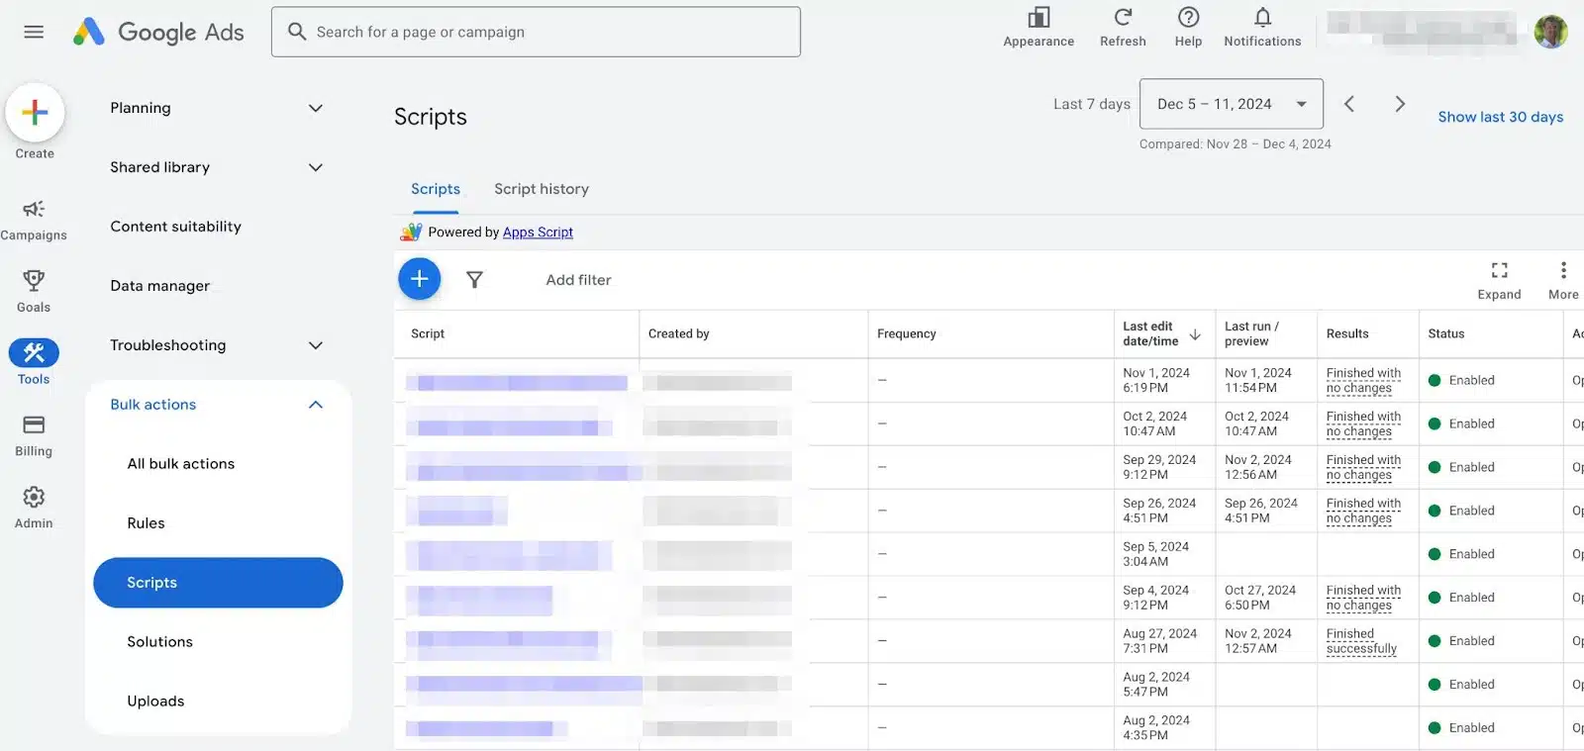
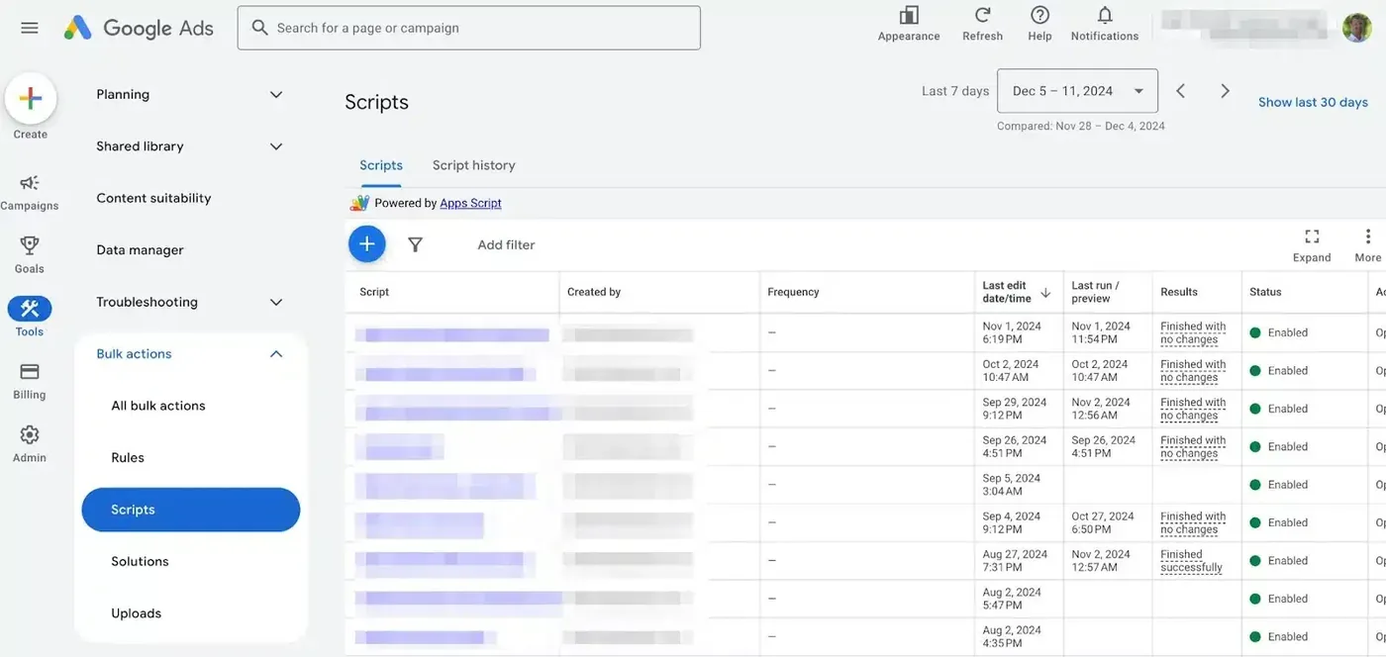
Convert all image refs to .webp for faster loading

Changed region(s): [[0.3071, 0.3012, 0.3379, 0.3313]]

diff --git a/index.html b/index.html
@@ -936,9 +936,9 @@
     <div class="hero-logos">
       <div class="hero-logos-label">Brands I've worked with</div>
       <div class="hero-logos-row">
-        <span class="logo-chip"><span class="logo-chip-icon"><img src="images/brand-logo.png" alt="Volopay"></span>Volopay</span>
-        <span class="logo-chip"><span class="logo-chip-icon"><img src="images/reviewer-rajveer.png" alt="Itilite"></span>Itilite</span>
-        <span class="logo-chip"><span class="logo-chip-icon"><img src="images/reviewer-pranav.png" alt="InterviewBuddy"></span>InterviewBuddy</span>
+        <span class="logo-chip"><span class="logo-chip-icon"><img src="images/brand-logo.webp" alt="Volopay"></span>Volopay</span>
+        <span class="logo-chip"><span class="logo-chip-icon"><img src="images/reviewer-rajveer.webp" alt="Itilite"></span>Itilite</span>
+        <span class="logo-chip"><span class="logo-chip-icon"><img src="images/reviewer-pranav.webp" alt="InterviewBuddy"></span>InterviewBuddy</span>
       </div>
     </div>
   </div>
@@ -987,7 +987,7 @@
   <!-- Illustration + floating badges -->
   <div class="hero-illus-section">
     <div class="hero-illus-inner">
-      <img id="hero-illus" src="images/vinay-illustration.png" alt="Vinay Kumar">
+      <img id="hero-illus" src="images/vinay-illustration.webp" alt="Vinay Kumar">
       <div class="float-badge float-1"><span class="badge-icon">✈</span> Traveller</div>
       <div class="float-badge float-2"><span class="badge-icon">🎨</span> Designer</div>
       <div class="float-badge float-3"><span class="badge-icon">📢</span> Marketer</div>
@@ -1022,7 +1022,7 @@
       <div class="about-img-wrap reveal">
         <div class="about-img-border"></div>
         <img
-          src="images/about-meghalaya.jpg"
+          src="images/about-meghalaya.webp"
           alt="Vinay Kumar"
           style="object-fit:cover;object-position:center top;"
         >
@@ -1098,7 +1098,7 @@
           <div class="cv-ghost"></div>
           <div class="cv-browser">
             <div class="cv-bar"><div class="cv-dots"><div class="cv-dot cv-dot-r"></div><div class="cv-dot cv-dot-y"></div><div class="cv-dot cv-dot-g"></div></div><div class="cv-url">volopay.com/dashboard</div></div>
-            <div class="cv-img"><img src="images/reviewer-enakshi.jpeg" alt="Volopay dashboard"></div>
+            <div class="cv-img"><img src="images/reviewer-enakshi.webp" alt="Volopay dashboard"></div>
           </div>
         </div>
       </div>
@@ -1122,7 +1122,7 @@
           <div class="cv-ghost"></div>
           <div class="cv-browser">
             <div class="cv-bar"><div class="cv-dots"><div class="cv-dot cv-dot-r"></div><div class="cv-dot cv-dot-y"></div><div class="cv-dot cv-dot-g"></div></div><div class="cv-url">vdointel.com/app</div></div>
-            <div class="cv-img"><img src="images/screenshot-200405.png" alt="VDO Intel"></div>
+            <div class="cv-img"><img src="images/screenshot-200405.webp" alt="VDO Intel"></div>
           </div>
         </div>
       </div>
@@ -1156,8 +1156,8 @@
     <!-- Mobile -->
     <div class="mob-scroll" style="margin-top:36px">
       <div class="mob-cards" id="cs-mob">
-        <div class="mob-card" onclick="location.href='volopay.html'" style="cursor:pointer"><div class="mob-card-vis"><div class="mob-cv-bg" style="background:radial-gradient(ellipse at 55% 30%,#FDBA8C 0%,#EA580C 50%,#7C2D12 100%)"></div><div class="mob-cv-ghost"></div><div class="mob-cv-browser"><div class="mob-cv-bar"><div class="mob-cv-dots"><div class="mob-cv-dot" style="background:#FF5F57"></div><div class="mob-cv-dot" style="background:#FFBD2E"></div><div class="mob-cv-dot" style="background:#28C840"></div></div></div><div class="mob-cv-img"><img src="images/reviewer-enakshi.jpeg" alt="Volopay"></div></div></div><div class="mob-card-body"><div class="card-co">Volopay · GTM Strategy</div><h3 class="card-title" style="font-size:17px">Ran GTM across four markets. The numbers moved everywhere.</h3><div class="card-tags"><span class="tag" style="background:rgba(196,98,45,0.1);color:#8B3A12">3.8%→11.85% CVR</span><span class="tag" style="background:rgba(196,98,45,0.1);color:#8B3A12">68% CPL Drop</span><span class="tag" style="background:rgba(196,98,45,0.1);color:#8B3A12">4 APAC Markets</span></div></div></div>
-        <div class="mob-card" onclick="location.href='vdo-intel.html'" style="cursor:pointer"><div class="mob-card-vis"><div class="mob-cv-bg" style="background:radial-gradient(ellipse at 55% 30%,#BAE6FD 0%,#0284C7 50%,#082F49 100%)"></div><div class="mob-cv-ghost"></div><div class="mob-cv-browser"><div class="mob-cv-bar"><div class="mob-cv-dots"><div class="mob-cv-dot" style="background:#FF5F57"></div><div class="mob-cv-dot" style="background:#FFBD2E"></div><div class="mob-cv-dot" style="background:#28C840"></div></div></div><div class="mob-cv-img"><img src="images/screenshot-200405.png" alt="VDO Intel"></div></div></div><div class="mob-card-body"><div class="card-co">VDO Intel · Positioning</div><h3 class="card-title" style="font-size:17px">Rewrote the positioning from scratch. Revenue followed in 90 days.</h3><div class="card-tags"><span class="tag" style="background:rgba(14,165,233,0.1);color:#0369a1">$220K Revenue</span><span class="tag" style="background:rgba(14,165,233,0.1);color:#0369a1">33.2% Lower CPL</span></div></div></div>
+        <div class="mob-card" onclick="location.href='volopay.html'" style="cursor:pointer"><div class="mob-card-vis"><div class="mob-cv-bg" style="background:radial-gradient(ellipse at 55% 30%,#FDBA8C 0%,#EA580C 50%,#7C2D12 100%)"></div><div class="mob-cv-ghost"></div><div class="mob-cv-browser"><div class="mob-cv-bar"><div class="mob-cv-dots"><div class="mob-cv-dot" style="background:#FF5F57"></div><div class="mob-cv-dot" style="background:#FFBD2E"></div><div class="mob-cv-dot" style="background:#28C840"></div></div></div><div class="mob-cv-img"><img src="images/reviewer-enakshi.webp" alt="Volopay"></div></div></div><div class="mob-card-body"><div class="card-co">Volopay · GTM Strategy</div><h3 class="card-title" style="font-size:17px">Ran GTM across four markets. The numbers moved everywhere.</h3><div class="card-tags"><span class="tag" style="background:rgba(196,98,45,0.1);color:#8B3A12">3.8%→11.85% CVR</span><span class="tag" style="background:rgba(196,98,45,0.1);color:#8B3A12">68% CPL Drop</span><span class="tag" style="background:rgba(196,98,45,0.1);color:#8B3A12">4 APAC Markets</span></div></div></div>
+        <div class="mob-card" onclick="location.href='vdo-intel.html'" style="cursor:pointer"><div class="mob-card-vis"><div class="mob-cv-bg" style="background:radial-gradient(ellipse at 55% 30%,#BAE6FD 0%,#0284C7 50%,#082F49 100%)"></div><div class="mob-cv-ghost"></div><div class="mob-cv-browser"><div class="mob-cv-bar"><div class="mob-cv-dots"><div class="mob-cv-dot" style="background:#FF5F57"></div><div class="mob-cv-dot" style="background:#FFBD2E"></div><div class="mob-cv-dot" style="background:#28C840"></div></div></div><div class="mob-cv-img"><img src="images/screenshot-200405.webp" alt="VDO Intel"></div></div></div><div class="mob-card-body"><div class="card-co">VDO Intel · Positioning</div><h3 class="card-title" style="font-size:17px">Rewrote the positioning from scratch. Revenue followed in 90 days.</h3><div class="card-tags"><span class="tag" style="background:rgba(14,165,233,0.1);color:#0369a1">$220K Revenue</span><span class="tag" style="background:rgba(14,165,233,0.1);color:#0369a1">33.2% Lower CPL</span></div></div></div>
         <div class="mob-card" onclick="location.href='performance-marketing.html'" style="cursor:pointer"><div class="mob-card-vis"><div class="mob-cv-bg" style="background:radial-gradient(ellipse at 55% 30%,#DDD6FE 0%,#7C3AED 50%,#2E1065 100%)"></div><div class="mob-cv-ghost"></div><div class="mob-cv-browser"><div class="mob-cv-bar"><div class="mob-cv-dots"><div class="mob-cv-dot" style="background:#FF5F57"></div><div class="mob-cv-dot" style="background:#FFBD2E"></div><div class="mob-cv-dot" style="background:#28C840"></div></div></div><div class="mob-cv-img"><img src="images/google-ads-script.webp" alt="Performance"></div></div></div><div class="mob-card-body"><div class="card-co">Performance Marketing</div><h3 class="card-title" style="font-size:17px">Multi-Channel Paid Acquisition</h3><div class="card-tags"><span class="tag" style="background:rgba(139,92,246,0.1);color:#6d28d9">33.2% CPL Drop</span><span class="tag" style="background:rgba(139,92,246,0.1);color:#6d28d9">+21% Engagement</span></div></div></div>
       </div>
       <div class="mob-arrows"><button class="mob-arrow" onclick="mobScroll('cs-mob',-1)">←</button><button class="mob-arrow" onclick="mobScroll('cs-mob',1)">→</button></div>
@@ -1193,7 +1193,7 @@
           <div class="cv-ghost"></div>
           <div class="cv-browser">
             <div class="cv-bar"><div class="cv-dots"><div class="cv-dot cv-dot-r"></div><div class="cv-dot cv-dot-y"></div><div class="cv-dot cv-dot-g"></div></div><div class="cv-url" style="font-family:monospace;font-size:10px;">claude — bash — 80×24</div></div>
-            <div class="cv-img"><img src="images/claude-terminal.png" alt="Claude terminal automation"></div>
+            <div class="cv-img"><img src="images/claude-terminal.webp" alt="Claude terminal automation"></div>
           </div>
         </div>
       </div>
@@ -1217,7 +1217,7 @@
           <div class="cv-ghost"></div>
           <div class="cv-browser">
             <div class="cv-bar"><div class="cv-dots"><div class="cv-dot cv-dot-r"></div><div class="cv-dot cv-dot-y"></div><div class="cv-dot cv-dot-g"></div></div><div class="cv-url">interviewbuddy.net</div></div>
-            <div class="cv-img"><img src="images/screenshot-200732.png" alt="InterviewBuddy"></div>
+            <div class="cv-img"><img src="images/screenshot-200732.webp" alt="InterviewBuddy"></div>
           </div>
         </div>
       </div>
@@ -1241,7 +1241,7 @@
           <div class="cv-ghost"></div>
           <div class="cv-browser">
             <div class="cv-bar"><div class="cv-dots"><div class="cv-dot cv-dot-r"></div><div class="cv-dot cv-dot-y"></div><div class="cv-dot cv-dot-g"></div></div><div class="cv-url">volopay.com/dashboard</div></div>
-            <div class="cv-img"><img src="images/reviewer-enakshi.jpeg" alt="Volopay dashboard"></div>
+            <div class="cv-img"><img src="images/reviewer-enakshi.webp" alt="Volopay dashboard"></div>
           </div>
         </div>
       </div>
@@ -1251,9 +1251,9 @@
     <!-- Mobile -->
     <div class="mob-scroll" style="margin-top:36px">
       <div class="mob-cards" id="exp-mob">
-        <div class="mob-card" onclick="location.href='ai-builds.html'" style="cursor:pointer"><div class="mob-card-vis" style="background:#0A0A0A;padding:0;overflow:hidden;"><img src="images/claude-terminal.png" alt="Claude Code terminal" style="width:100%;height:100%;object-fit:cover;object-position:top center;display:block;border-radius:16px 16px 0 0;"></div><div class="mob-card-body"><div class="card-co">AI Tooling · Claude Code</div><h3 class="card-title" style="font-size:17px">Four Recurring Tasks. Four Agents. Zero Manual Loops.</h3><div class="card-tags"><span class="tag" style="background:rgba(59,130,246,0.1);color:#1d4ed8">Claude Code</span><span class="tag" style="background:rgba(59,130,246,0.1);color:#1d4ed8">Automation</span><span class="tag" style="background:rgba(59,130,246,0.1);color:#1d4ed8">Zero Manual Work</span></div></div></div>
-        <div class="mob-card" onclick="location.href='interviewbuddy.html'" style="cursor:pointer"><div class="mob-card-vis"><div class="mob-cv-bg" style="background:radial-gradient(ellipse at 55% 30%,#FEF08A 0%,#CA8A04 50%,#431407 100%)"></div><div class="mob-cv-ghost"></div><div class="mob-cv-browser"><div class="mob-cv-bar"><div class="mob-cv-dots"><div class="mob-cv-dot" style="background:#FF5F57"></div><div class="mob-cv-dot" style="background:#FFBD2E"></div><div class="mob-cv-dot" style="background:#28C840"></div></div></div><div class="mob-cv-img"><img src="images/screenshot-200732.png" alt="InterviewBuddy"></div></div></div><div class="mob-card-body"><div class="card-co">Growth Hack</div><h3 class="card-title" style="font-size:17px">When Strategy Beats Budget</h3><div class="card-tags"><span class="tag" style="background:rgba(234,179,8,0.1);color:#854d0e">+21% Engagement</span><span class="tag" style="background:rgba(234,179,8,0.1);color:#854d0e">Zero Ad Spend</span></div></div></div>
-        <div class="mob-card" onclick="location.href='meta-ugc-volopay.html'" style="cursor:pointer"><div class="mob-card-vis"><div class="mob-cv-bg" style="background:radial-gradient(ellipse at 55% 30%,#FBCFE8 0%,#EC4899 50%,#831843 100%)"></div><div class="mob-cv-ghost"></div><div class="mob-cv-browser"><div class="mob-cv-bar"><div class="mob-cv-dots"><div class="mob-cv-dot" style="background:#FF5F57"></div><div class="mob-cv-dot" style="background:#FFBD2E"></div><div class="mob-cv-dot" style="background:#28C840"></div></div><div style="font-size:8px;color:rgba(20,20,20,0.4);padding-left:6px;">meta ads · volopay</div></div><div class="mob-cv-img"><img src="images/reviewer-enakshi.jpeg" alt="Meta UGC"></div></div></div><div class="mob-card-body"><div class="card-co">Meta UGC · Volopay</div><h3 class="card-title" style="font-size:17px">Selling B2B Like It's B2C</h3><div class="card-tags"><span class="tag" style="background:rgba(236,72,153,0.1);color:#9d174d">13% CVR Lift</span><span class="tag" style="background:rgba(236,72,153,0.1);color:#9d174d">68% Lower CPL</span></div></div></div>
+        <div class="mob-card" onclick="location.href='ai-builds.html'" style="cursor:pointer"><div class="mob-card-vis" style="background:#0A0A0A;padding:0;overflow:hidden;"><img src="images/claude-terminal.webp" alt="Claude Code terminal" style="width:100%;height:100%;object-fit:cover;object-position:top center;display:block;border-radius:16px 16px 0 0;"></div><div class="mob-card-body"><div class="card-co">AI Tooling · Claude Code</div><h3 class="card-title" style="font-size:17px">Four Recurring Tasks. Four Agents. Zero Manual Loops.</h3><div class="card-tags"><span class="tag" style="background:rgba(59,130,246,0.1);color:#1d4ed8">Claude Code</span><span class="tag" style="background:rgba(59,130,246,0.1);color:#1d4ed8">Automation</span><span class="tag" style="background:rgba(59,130,246,0.1);color:#1d4ed8">Zero Manual Work</span></div></div></div>
+        <div class="mob-card" onclick="location.href='interviewbuddy.html'" style="cursor:pointer"><div class="mob-card-vis"><div class="mob-cv-bg" style="background:radial-gradient(ellipse at 55% 30%,#FEF08A 0%,#CA8A04 50%,#431407 100%)"></div><div class="mob-cv-ghost"></div><div class="mob-cv-browser"><div class="mob-cv-bar"><div class="mob-cv-dots"><div class="mob-cv-dot" style="background:#FF5F57"></div><div class="mob-cv-dot" style="background:#FFBD2E"></div><div class="mob-cv-dot" style="background:#28C840"></div></div></div><div class="mob-cv-img"><img src="images/screenshot-200732.webp" alt="InterviewBuddy"></div></div></div><div class="mob-card-body"><div class="card-co">Growth Hack</div><h3 class="card-title" style="font-size:17px">When Strategy Beats Budget</h3><div class="card-tags"><span class="tag" style="background:rgba(234,179,8,0.1);color:#854d0e">+21% Engagement</span><span class="tag" style="background:rgba(234,179,8,0.1);color:#854d0e">Zero Ad Spend</span></div></div></div>
+        <div class="mob-card" onclick="location.href='meta-ugc-volopay.html'" style="cursor:pointer"><div class="mob-card-vis"><div class="mob-cv-bg" style="background:radial-gradient(ellipse at 55% 30%,#FBCFE8 0%,#EC4899 50%,#831843 100%)"></div><div class="mob-cv-ghost"></div><div class="mob-cv-browser"><div class="mob-cv-bar"><div class="mob-cv-dots"><div class="mob-cv-dot" style="background:#FF5F57"></div><div class="mob-cv-dot" style="background:#FFBD2E"></div><div class="mob-cv-dot" style="background:#28C840"></div></div><div style="font-size:8px;color:rgba(20,20,20,0.4);padding-left:6px;">meta ads · volopay</div></div><div class="mob-cv-img"><img src="images/reviewer-enakshi.webp" alt="Meta UGC"></div></div></div><div class="mob-card-body"><div class="card-co">Meta UGC · Volopay</div><h3 class="card-title" style="font-size:17px">Selling B2B Like It's B2C</h3><div class="card-tags"><span class="tag" style="background:rgba(236,72,153,0.1);color:#9d174d">13% CVR Lift</span><span class="tag" style="background:rgba(236,72,153,0.1);color:#9d174d">68% Lower CPL</span></div></div></div>
       </div>
       <div class="mob-arrows"><button class="mob-arrow" onclick="mobScroll('exp-mob',-1)">←</button><button class="mob-arrow" onclick="mobScroll('exp-mob',1)">→</button></div>
     </div>
@@ -1286,7 +1286,7 @@
           <div class="cv-ghost"></div>
           <div class="cv-browser">
             <div class="cv-bar"><div class="cv-dots"><div class="cv-dot cv-dot-r"></div><div class="cv-dot cv-dot-y"></div><div class="cv-dot cv-dot-g"></div></div><div class="cv-url">GoPMM Cohort 2</div></div>
-            <div class="cv-img"><img src="images/gopmm-cohort.jpeg" alt="GoPMM Cohort 2" style="object-position:center top;"></div>
+            <div class="cv-img"><img src="images/gopmm-cohort.webp" alt="GoPMM Cohort 2" style="object-position:center top;"></div>
           </div>
         </div>
       </div>
@@ -1299,7 +1299,7 @@
             <div class="mob-cv-ghost"></div>
             <div class="mob-cv-browser">
               <div class="mob-cv-bar"><div class="mob-cv-dots"><div class="mob-cv-dot" style="background:#FF5F57"></div><div class="mob-cv-dot" style="background:#FFBD2E"></div><div class="mob-cv-dot" style="background:#28C840"></div></div><div style="font-size:8px;color:rgba(20,20,20,0.4);padding-left:6px;">GoPMM Cohort 2</div></div>
-              <div class="mob-cv-img"><img src="images/gopmm-cohort.jpeg" alt="GoPMM Cohort 2" style="object-position:center top;"></div>
+              <div class="mob-cv-img"><img src="images/gopmm-cohort.webp" alt="GoPMM Cohort 2" style="object-position:center top;"></div>
             </div>
           </div>
           <div class="mob-card-body">
@@ -1344,7 +1344,7 @@
           <div class="cv-ghost"></div>
           <div class="cv-browser">
             <div class="cv-bar"><div class="cv-dots"><div class="cv-dot cv-dot-r"></div><div class="cv-dot cv-dot-y"></div><div class="cv-dot cv-dot-g"></div></div><div class="cv-url">design-work · figma + ps</div></div>
-            <div class="cv-img"><img src="images/design-case-study-cover.jpg" alt="Design work cover"></div>
+            <div class="cv-img"><img src="images/design-case-study-cover.webp" alt="Design work cover"></div>
           </div>
         </div>
       </div>
@@ -1358,7 +1358,7 @@
             <div class="mob-cv-ghost"></div>
             <div class="mob-cv-browser">
               <div class="mob-cv-bar"><div class="mob-cv-dots"><div class="mob-cv-dot" style="background:#FF5F57"></div><div class="mob-cv-dot" style="background:#FFBD2E"></div><div class="mob-cv-dot" style="background:#28C840"></div></div></div>
-              <div class="mob-cv-img"><img src="images/design-case-study-cover.jpg" alt="Design work"></div>
+              <div class="mob-cv-img"><img src="images/design-case-study-cover.webp" alt="Design work"></div>
             </div>
           </div>
           <div class="mob-card-body">
@@ -1388,7 +1388,7 @@
         <div><div class="testi-stars">★★★★★</div>
           <p class="testi-quote">"Working with Vinay was a true pleasure. As a hard-working individual and a solid team player, he consistently exceeded expectations. His positive attitude and strong work ethic were inspiring."</p>
         </div>
-        <div class="testi-author"><div class="testi-avatar"><img src="images/card-interviewbuddy.jpeg" alt="Pranav"></div>
+        <div class="testi-author"><div class="testi-avatar"><img src="images/card-interviewbuddy.webp" alt="Pranav"></div>
           <div><div class="testi-name">Pranav Harish</div><div class="testi-role">Head of Growth @ Volopay</div></div>
         </div>
       </div>
@@ -1396,7 +1396,7 @@
         <div><div class="testi-stars">★★★★★</div>
           <p class="testi-quote">"Working with Vinay at Revv Growth has been a great experience. He leads with clarity, stays calm under pressure, and always makes sure the team knows the bigger goal. He is truly multi-talented."</p>
         </div>
-        <div class="testi-author"><div class="testi-avatar"><img src="images/itilite-logo.png" alt="Enakshi"></div>
+        <div class="testi-author"><div class="testi-avatar"><img src="images/itilite-logo.webp" alt="Enakshi"></div>
           <div><div class="testi-name">Enakshi Saha</div><div class="testi-role">Growth Marketer @ Revv Growth</div></div>
         </div>
       </div>
@@ -1404,7 +1404,7 @@
         <div><div class="testi-stars">★★★★★</div>
           <p class="testi-quote">"Vinay is someone who is exceptionally smart when it comes to running ads on various channels, especially Facebook. Super proactive and is someone with whom working is very easy."</p>
         </div>
-        <div class="testi-author"><div class="testi-avatar"><img src="images/card-volopay.jpeg" alt="Rajveer"></div>
+        <div class="testi-author"><div class="testi-avatar"><img src="images/card-volopay.webp" alt="Rajveer"></div>
           <div><div class="testi-name">Rajveer Singh</div><div class="testi-role">Growth at Volopay</div></div>
         </div>
       </div>
@@ -1412,7 +1412,7 @@
         <div><div class="testi-stars">★★★★★</div>
           <p class="testi-quote">"Vinay is a product marketer who excels at turning complex technology into clear, revenue-driving narratives. He played a key role in repositioning our product, leading to an increase in qualified leads, and collaborated on a website revamp that significantly improved engagement and demo conversions."</p>
         </div>
-        <div class="testi-author"><div class="testi-avatar"><img src="images/reviewer-madhu.jpeg" alt="Madhu Babu"></div>
+        <div class="testi-author"><div class="testi-avatar"><img src="images/reviewer-madhu.webp" alt="Madhu Babu"></div>
           <div><div class="testi-name">Madhu Babu</div><div class="testi-role">Chief of Operations, VDO Intel</div></div>
         </div>
       </div>
@@ -1421,7 +1421,7 @@
         <div><div class="testi-stars">★★★★★</div>
           <p class="testi-quote">"Working with Vinay was a true pleasure. As a hard-working individual and a solid team player, he consistently exceeded expectations. His positive attitude and strong work ethic were inspiring."</p>
         </div>
-        <div class="testi-author"><div class="testi-avatar"><img src="images/card-interviewbuddy.jpeg" alt="Pranav"></div>
+        <div class="testi-author"><div class="testi-avatar"><img src="images/card-interviewbuddy.webp" alt="Pranav"></div>
           <div><div class="testi-name">Pranav Harish</div><div class="testi-role">Head of Growth @ Volopay</div></div>
         </div>
       </div>
@@ -1429,7 +1429,7 @@
         <div><div class="testi-stars">★★★★★</div>
           <p class="testi-quote">"Working with Vinay at Revv Growth has been a great experience. He leads with clarity, stays calm under pressure, and always makes sure the team knows the bigger goal. He is truly multi-talented."</p>
         </div>
-        <div class="testi-author"><div class="testi-avatar"><img src="images/itilite-logo.png" alt="Enakshi"></div>
+        <div class="testi-author"><div class="testi-avatar"><img src="images/itilite-logo.webp" alt="Enakshi"></div>
           <div><div class="testi-name">Enakshi Saha</div><div class="testi-role">Growth Marketer @ Revv Growth</div></div>
         </div>
       </div>
@@ -1437,7 +1437,7 @@
         <div><div class="testi-stars">★★★★★</div>
           <p class="testi-quote">"Vinay is someone who is exceptionally smart when it comes to running ads on various channels, especially Facebook. Super proactive and is someone with whom working is very easy."</p>
         </div>
-        <div class="testi-author"><div class="testi-avatar"><img src="images/card-volopay.jpeg" alt="Rajveer"></div>
+        <div class="testi-author"><div class="testi-avatar"><img src="images/card-volopay.webp" alt="Rajveer"></div>
           <div><div class="testi-name">Rajveer Singh</div><div class="testi-role">Growth at Volopay</div></div>
         </div>
       </div>
@@ -1445,7 +1445,7 @@
         <div><div class="testi-stars">★★★★★</div>
           <p class="testi-quote">"Vinay is a product marketer who excels at turning complex technology into clear, revenue-driving narratives. He played a key role in repositioning our product, leading to an increase in qualified leads, and collaborated on a website revamp that significantly improved engagement and demo conversions."</p>
         </div>
-        <div class="testi-author"><div class="testi-avatar"><img src="images/reviewer-madhu.jpeg" alt="Madhu Babu"></div>
+        <div class="testi-author"><div class="testi-avatar"><img src="images/reviewer-madhu.webp" alt="Madhu Babu"></div>
           <div><div class="testi-name">Madhu Babu</div><div class="testi-role">Chief of Operations, VDO Intel</div></div>
         </div>
       </div>

diff --git a/design.html b/design.html
@@ -237,7 +237,7 @@
           <div class="comp-browser-url">volopay.com/corporate-cards</div>
         </div>
         <div class="comp-scroll">
-          <img src="images/cc-ver1-india.png" alt="Volopay CC V1" class="comp-img">
+          <img src="images/cc-ver1-india.webp" alt="Volopay CC V1" class="comp-img">
         </div>
         <div class="comp-label">
           <span class="comp-label-text">Version 1</span>
@@ -254,7 +254,7 @@
           <div class="comp-browser-url">volopay.com/corporate-cards</div>
         </div>
         <div class="comp-scroll">
-          <img src="images/cc-ver2-india.png" alt="Volopay CC V2" class="comp-img">
+          <img src="images/cc-ver2-india.webp" alt="Volopay CC V2" class="comp-img">
         </div>
         <div class="comp-label">
           <span class="comp-label-text">Version 2</span>
@@ -309,28 +309,28 @@
 
     <div class="variants-grid r r3">
       <div class="variant-card">
-        <img src="images/IB_Ad1_FearStakes_1200x628.png" alt="InterviewBuddy variant 1" class="variant-img">
+        <img src="images/IB_Ad1_FearStakes_1200x628.webp" alt="InterviewBuddy variant 1" class="variant-img">
         <div class="variant-label">
           <div class="variant-hyp">Hypothesis A</div>
           <div class="variant-text"><strong>Fear + Stakes</strong>. Opens with the worst-case scenario. Tests whether naming the fear directly drives higher urgency than aspirational messaging.</div>
         </div>
       </div>
       <div class="variant-card">
-        <img src="images/IB_Ad2_SocialProof_1200x628.png" alt="InterviewBuddy variant 2" class="variant-img">
+        <img src="images/IB_Ad2_SocialProof_1200x628.webp" alt="InterviewBuddy variant 2" class="variant-img">
         <div class="variant-label">
           <div class="variant-hyp">Hypothesis B</div>
           <div class="variant-text"><strong>Social proof</strong>. Peer validation as the hook. Tests whether "others like you succeeded" outperforms fear-based framing for this audience.</div>
         </div>
       </div>
       <div class="variant-card">
-        <img src="images/IB_Ad3_Outcome_1200x628.png" alt="InterviewBuddy variant 3" class="variant-img">
+        <img src="images/IB_Ad3_Outcome_1200x628.webp" alt="InterviewBuddy variant 3" class="variant-img">
         <div class="variant-label">
           <div class="variant-hyp">Hypothesis C</div>
           <div class="variant-text"><strong>Outcome-led</strong>. Leads with the result, not the product. Tests whether showing the destination converts better than highlighting the risk.</div>
         </div>
       </div>
       <div class="variant-card">
-        <img src="images/IB_Ad4_Urgency_1080x1080.png" alt="InterviewBuddy variant 4" class="variant-img">
+        <img src="images/IB_Ad4_Urgency_1080x1080.webp" alt="InterviewBuddy variant 4" class="variant-img">
         <div class="variant-label">
           <div class="variant-hyp">Hypothesis D</div>
           <div class="variant-text"><strong>Urgency</strong>. Time-pressure framing. Tests whether a deadline-driven message lifts CTR over benefit or proof-based hooks.</div>
@@ -377,7 +377,7 @@
           <div class="lp-browser-url">revvgrowth.com/ai-seo</div>
         </div>
         <div class="lp-scroll">
-          <img src="images/screencapture-blurred.png" alt="AI SEO landing page" class="lp-img">
+          <img src="images/screencapture-blurred.webp" alt="AI SEO landing page" class="lp-img">
         </div>
       </div>
       <div class="lp-annotations">
@@ -413,16 +413,16 @@
 
     <div style="display:grid;grid-template-columns:repeat(2,1fr);gap:20px;margin-top:36px;">
       <div class="r r1" style="border-radius:14px;overflow:hidden;border:1px solid var(--border);">
-        <img src="images/film-poster-01.jpeg" alt="Film poster 1" style="width:100%;display:block;border-radius:14px;">
+        <img src="images/film-poster-01.webp" alt="Film poster 1" style="width:100%;display:block;border-radius:14px;">
       </div>
       <div class="r r2" style="border-radius:14px;overflow:hidden;border:1px solid var(--border);">
-        <img src="images/film-poster-02.jpeg" alt="Film poster 2" style="width:100%;display:block;border-radius:14px;">
+        <img src="images/film-poster-02.webp" alt="Film poster 2" style="width:100%;display:block;border-radius:14px;">
       </div>
       <div class="r r3" style="border-radius:14px;overflow:hidden;border:1px solid var(--border);">
-        <img src="images/film-poster-03.jpeg" alt="Film poster 3" style="width:100%;display:block;border-radius:14px;">
+        <img src="images/film-poster-03.webp" alt="Film poster 3" style="width:100%;display:block;border-radius:14px;">
       </div>
       <div class="r r1" style="border-radius:14px;overflow:hidden;border:1px solid var(--border);">
-        <img src="images/film-poster-04.jpeg" alt="Film poster 4" style="width:100%;display:block;border-radius:14px;">
+        <img src="images/film-poster-04.webp" alt="Film poster 4" style="width:100%;display:block;border-radius:14px;">
       </div>
     </div>
   </section>

diff --git a/ai-builds.html b/ai-builds.html
@@ -610,7 +610,7 @@
             <div class="artifact-bar-right">google-ads-bot</div>
           </div>
           <img
-            src="images/google_ads_push.png"
+            src="images/google_ads_push.webp"
             alt="Claude Code terminal showing 46 existing + 12 new campaigns pushed to Google Ads"
             class="artifact-img"
             loading="lazy"
@@ -668,7 +668,7 @@
             <div class="artifact-bar-right">competitive-intel</div>
           </div>
           <img
-            src="images/competitive_intel_push.png"
+            src="images/competitive_intel_push.webp"
             alt="Claude Code terminal showing 4 competitors, 373 ad creatives, 298 screenshots captured"
             class="artifact-img"
             loading="lazy"
@@ -726,7 +726,7 @@
             <div class="artifact-bar-right">proposal-agent</div>
           </div>
           <img
-            src="images/proposal_agent_push.png"
+            src="images/proposal_agent_push.webp"
             alt="Claude Code terminal showing proposal built in 18 min from domain + transcript"
             class="artifact-img"
             loading="lazy"
@@ -782,7 +782,7 @@
             <div class="artifact-bar-right">outbound-landing-pages</div>
           </div>
           <img
-            src="images/outbound_pages_push.png"
+            src="images/outbound_pages_push.webp"
             alt="Claude Code terminal showing 34 personalized landing pages built in 45 minutes"
             class="artifact-img"
             loading="lazy"

diff --git a/meta-ugc-volopay.html b/meta-ugc-volopay.html
@@ -399,9 +399,9 @@
   <div class="film-strip r r1">
     <div class="film-label">From the campaign</div>
     <div class="film-row">
-      <div class="film-frame"><img src="images/meta-ugc-01.png" alt="UGC campaign frame 1"></div>
-      <div class="film-frame"><img src="images/meta-ugc-02.png" alt="UGC campaign frame 2"></div>
-      <div class="film-frame"><img src="images/meta-ugc-03.png" alt="UGC campaign frame 3"></div>
+      <div class="film-frame"><img src="images/meta-ugc-01.webp" alt="UGC campaign frame 1"></div>
+      <div class="film-frame"><img src="images/meta-ugc-02.webp" alt="UGC campaign frame 2"></div>
+      <div class="film-frame"><img src="images/meta-ugc-03.webp" alt="UGC campaign frame 3"></div>
     </div>
   </div>
 
@@ -448,7 +448,7 @@
   <div class="film-strip r r2" style="margin-top: 28px;">
     <div class="film-label">Meta Ads Manager, campaign view</div>
     <div class="film-frame" style="border-radius: 16px; box-shadow: 0 12px 40px rgba(20,20,20,0.14);">
-      <img src="images/meta-ugc-volopay-screenshot.png" alt="Meta Ads Manager dashboard">
+      <img src="images/meta-ugc-volopay-screenshot.webp" alt="Meta Ads Manager dashboard">
     </div>
   </div>
 

diff --git a/gopmm-razorpayx.html b/gopmm-razorpayx.html
@@ -218,7 +218,7 @@
     <div class="slabel r">The program</div>
     <p class="body-text r r1">GoPMM was built by practitioners from Razorpay, Swiggy, and Freshworks who were tired of watching people get PMM wrong. Six live sessions across 9 weeks, each one covering a different part of the role, followed by a 3-week capstone on a real company brief.</p>
 
-    <img src="images/gopmm-cohort.jpeg" alt="GoPMM Cohort 2 live sessions" class="prog-img r r2" style="width:100%;border-radius:16px;margin:24px 0 4px;display:block;object-fit:cover;">
+    <img src="images/gopmm-cohort.webp" alt="GoPMM Cohort 2 live sessions" class="prog-img r r2" style="width:100%;border-radius:16px;margin:24px 0 4px;display:block;object-fit:cover;">
 
     <div class="prog-grid r r3">
       <div class="prog-card dark">
